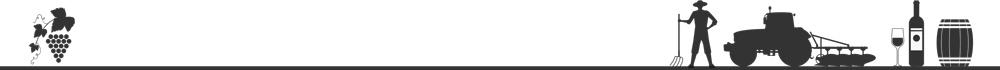
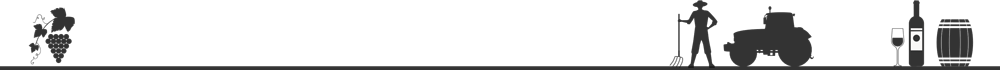
Nelles frises > footers + nelles ancres > Duke

diff --git a/content/fr/chapitre6.html b/content/fr/chapitre6.html
@@ -891,6 +891,8 @@
             <p class="texte-advice">Deux procédures sont à votre disposition pour produire une facture d'achat. La première est de générer une facture à partir de la gestion des achats, la seconde est de créer une facture à partir d'une ou plusieurs réception&#40;s&#41;. Cette deuxième option permet un rapprochement direct avec le fournisseur et un pré-remplissage automatique des éléments réceptionnés et des quantités attendues dans la fenêtre de saisie.</p>
          </div>
       </div>
+	  <h6>Guide de prise en main • Achats • Enregistrer une facture d'achat</h6>
+	  <a class="slice-process" id="nelle-facture"></a>
       <p align="center" class="texte aerateur procedure">1 – Procédure pour enregistrer une facture d'achat
       </p>
       <p class="texte">
@@ -987,6 +989,8 @@
             <img src="../images/chapitre6/facture10.png" class="contour-img" alt="Facture acceptée pour paiement" data-action="zoom" />
          </p>
       </div>
+	  <h6>Guide de prise en main • Achats • Facturer à partir d'une réception</h6>
+	  <a class="slice-process" id="facture-recept"></a>
 	  <p align="center" class="texte aerateur procedure">2 – Procédure pour produire une facture à partir d'une réception
       </p>
 	  <p align="center"><img src="../images/chapitre6/schema-facturation.png" height="100" alt="Facture rapprochée"/></p>
@@ -1074,9 +1078,10 @@
       </div>
       <h6>Guide de prise en main • Achats • Décaissements et lots de décaissements</h6>
       <a class="slice-process" id="decaissements"></a>
-      <h2 class="texte aerateur">f - Décaissements et lots de décaissements</h2>
+      <h2 class="texte aerateur-top">f - Décaissements et lots de décaissements</h2>
 	  <h6>Guide de prise en main • Achats • Paramétrer un mode de décaissement</h6>
-	  <p align="center" class="texte procedure">1 – Procédure pour paramétrer un mode de décaissement</p>
+	  <a class="slice-process" id="mode-decaisst"></a>
+	  <p align="center" class="texte aerateur procedure">1 – Procédure pour paramétrer un mode de décaissement</p>
 	  <p class="texte">La création d'un mode de décaissement permet de définir le lien avec une trésorerie existante, de spécifier le passage ou non des écritures en comptabilité et d'activer ou non les exports <span class="tooltip">SEPA<span class="tooltiptext tooltip-top">Voir glossaire</span></span> au format <span class="tooltip">XML<span class="tooltiptext tooltip-top">Voir glossaire</span></span> pour les règlements par virement.</p>
       <p class="texte">Le processus suivant vous guide pour paramétrer un nouveau mode de décaissement.</p>
 	  <div class="floating-box process">
@@ -1123,6 +1128,7 @@
          </p>
       </div>
 	  <h6>Guide de prise en main • Achats • Réaliser un décaissement</h6>
+	  <a class="slice-process" id="nouv-decaisst"></a>
       <p align="center" class="texte aerateur procedure">2 – Procédure pour réaliser un décaissement</p>
       <p class="texte">
          Le processus suivant vous guide pour réaliser un décaissement à partir d'une facture.
@@ -1391,7 +1397,7 @@
             </div>
          </div>
       </div>
-      <div class="footer"><img src="../images/accueil/frise.png" alt="Frise" /></div>
+      <div class="footer"><img src="../images/commun/frise.png" alt="Frise" /></div>
 	  <div class="navigation">
          <div id="breadcrumb">
             <ul class="breadcrumb">

diff --git a/content/fr/demarrage.html b/content/fr/demarrage.html
@@ -16,7 +16,7 @@
       <h1 align="center" class="texte majuscule aerateur">Guide de prise en main</h1>
       <p align="center"><img src="../images/accueil/icone-doc.png" alt="Documentation Ekylibre" height="100px"></p>
       <p align="center"><img src="../images/accueil/logos-eky.png" alt="Logos Ekylibre" height="80px"></p>
-      <p class="texte">Ce guide a pour but d'aider le nouvel utilisateur à configurer rapidement et correctement les applications développées par Ekylibre &#40;sauf <a href="https://doc.clic.farm/" target="_blank" class="avoid-clicks"><strong>Clic</strong>&#38;Farm</a>&#41; pour son exploitation agricole et de commencer à les utiliser. Cette documentation a été mise à jour le 9 mars 2021. La version au format PDF est datée du 8 mars 2021.</p>
+      <p class="texte">Ce guide a pour but d'aider le nouvel utilisateur à configurer rapidement et correctement les applications développées par Ekylibre &#40;sauf <a href="https://doc.clic.farm/" target="_blank" class="avoid-clicks"><strong>Clic</strong>&#38;Farm</a>&#41; pour son exploitation agricole et de commencer à les utiliser. Cette documentation a été mise à jour le 10 mars 2021. La version au format PDF est datée du 8 mars 2021.</p>
       <div class="info-fond aerateur-haut aerateur-bas">
          <div class="floating-box-info">
             <img src="../images/commun/info.svg" width="100" alt="Info"/>
@@ -583,7 +583,7 @@
    </article>
    <aside></aside>
 </div>
-<div class="footer"><img src="../images/accueil/frise.png" alt="Frise" /></div>
+<div class="footer"><img src="../images/commun/frise.png" alt="Frise" /></div>
 <div class="navigation">
    <div id="breadcrumb">
       <ul class="breadcrumb">

diff --git a/content/fr/annexes.html b/content/fr/annexes.html
@@ -107,7 +107,7 @@
 	  <div class="pdf">
          <p align="right" class="texte aerateur-haut aerateur-bas">&nbsp;</p>
       </div>
-      <div class="footer"><img src="../images/accueil/frise.png" alt="Frise" /></div>
+      <div class="footer"><img src="../images/commun/frise.png" alt="Frise" /></div>
 	  <div class="navigation">
          <div class="divTable">
             <div class="divTableBody">

diff --git a/content/fr/chapitre1.html b/content/fr/chapitre1.html
@@ -1401,7 +1401,7 @@
             </div>
          </div>
       </div>
-      <div class="footer"><img src="../images/accueil/frise.png" alt="Frise" /></div>
+      <div class="footer"><img src="../images/commun/frise.png" alt="Frise" /></div>
 	  <div class="navigation">
          <div id="breadcrumb">
             <ul class="breadcrumb">

diff --git a/content/fr/chapitre10.html b/content/fr/chapitre10.html
@@ -2473,7 +2473,7 @@
             </div>
          </div>
       </div>
-      <div class="footer"><img src="../images/accueil/frise.png" alt="Frise" /></div>
+      <div class="footer"><img src="../images/commun/frise.png" alt="Frise" /></div>
 	  <div class="navigation">
          <div id="breadcrumb">
             <ul class="breadcrumb">

diff --git a/content/fr/chapitre3.html b/content/fr/chapitre3.html
@@ -1653,7 +1653,7 @@
             </div>
          </div>
       </div>
-      <div class="footer"><img src="../images/accueil/frise.png" alt="Frise" /></div>
+      <div class="footer"><img src="../images/commun/frise.png" alt="Frise" /></div>
 	  <div class="navigation">
          <div id="breadcrumb">
             <ul class="breadcrumb">

diff --git a/content/fr/chapitre4.html b/content/fr/chapitre4.html
@@ -2735,7 +2735,7 @@
             </div>
          </div>
       </div>
-      <div class="footer"><img src="../images/accueil/frise.png" alt="Frise" /></div>
+      <div class="footer"><img src="../images/commun/frise.png" alt="Frise" /></div>
 	  <div class="navigation">
          <div id="breadcrumb">
             <ul class="breadcrumb">

diff --git a/content/fr/chapitre5.html b/content/fr/chapitre5.html
@@ -3582,7 +3582,7 @@
             </div>
          </div>
       </div>
-      <div class="footer"><img src="../images/accueil/frise.png" alt="Frise" /></div>
+      <div class="footer"><img src="../images/commun/frise.png" alt="Frise" /></div>
 	  <div class="navigation">
          <div id="breadcrumb">
             <ul class="breadcrumb">

diff --git a/content/fr/chapitre7.html b/content/fr/chapitre7.html
@@ -1183,7 +1183,7 @@
             </div>
          </div>
       </div>
-      <div class="footer"><img src="../images/accueil/frise.png" alt="Frise" /></div>
+      <div class="footer"><img src="../images/commun/frise.png" alt="Frise" /></div>
 	  <div class="navigation">
          <div id="breadcrumb">
             <ul class="breadcrumb">

diff --git a/content/fr/chapitre8.html b/content/fr/chapitre8.html
@@ -3154,7 +3154,7 @@
             </div>
          </div>
       </div>
-      <div class="footer"><img src="../images/accueil/frise.png" alt="Frise" /></div>
+      <div class="footer"><img src="../images/commun/frise.png" alt="Frise" /></div>
 	  <div class="navigation">
          <div id="breadcrumb">
             <ul class="breadcrumb">

diff --git a/content/fr/chapitre9.html b/content/fr/chapitre9.html
@@ -2342,7 +2342,7 @@
             </div>
          </div>
       </div>
-      <div class="footer"><img src="../images/accueil/frise.png" alt="Frise" /></div>
+      <div class="footer"><img src="../images/commun/frise.png" alt="Frise" /></div>
 	  <div class="navigation">
          <div id="breadcrumb">
             <ul class="breadcrumb">

diff --git a/content/fr/duke.html b/content/fr/duke.html
@@ -1120,7 +1120,7 @@
             </div>
          </div>
       </div>
-      <div class="footer"><img src="../images/accueil/frise.png" alt="Frise" /></div>
+      <div class="footer"><img src="../images/commun/frise.png" alt="Frise" /></div>
 	  <div class="navigation">
          <div id="breadcrumb">
             <ul class="breadcrumb">
